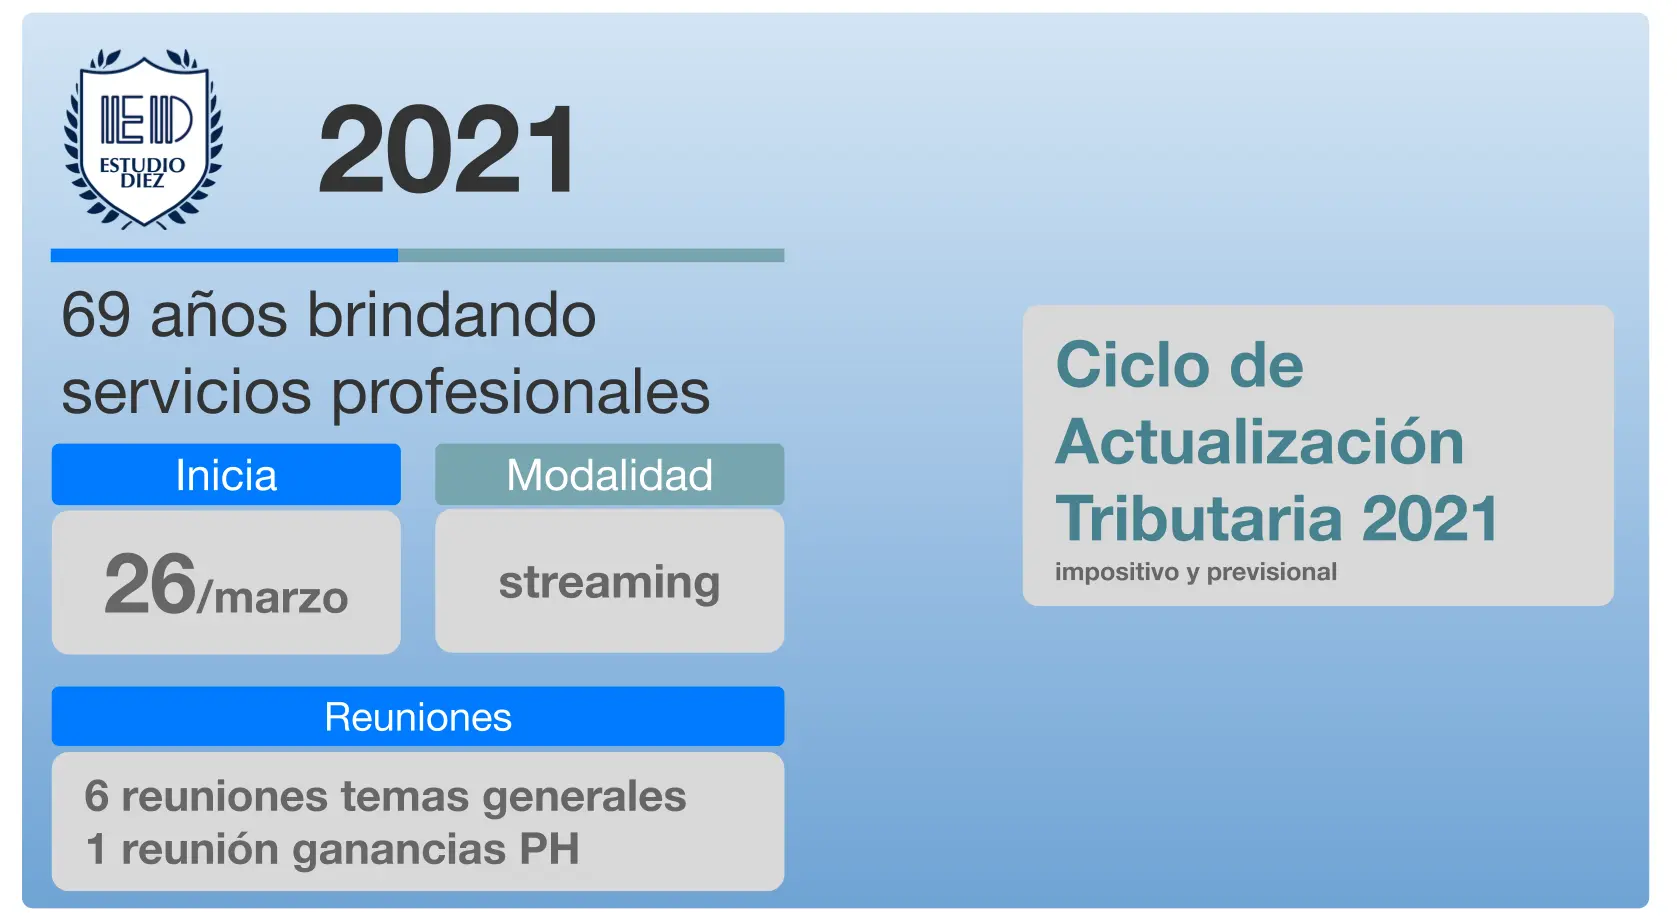
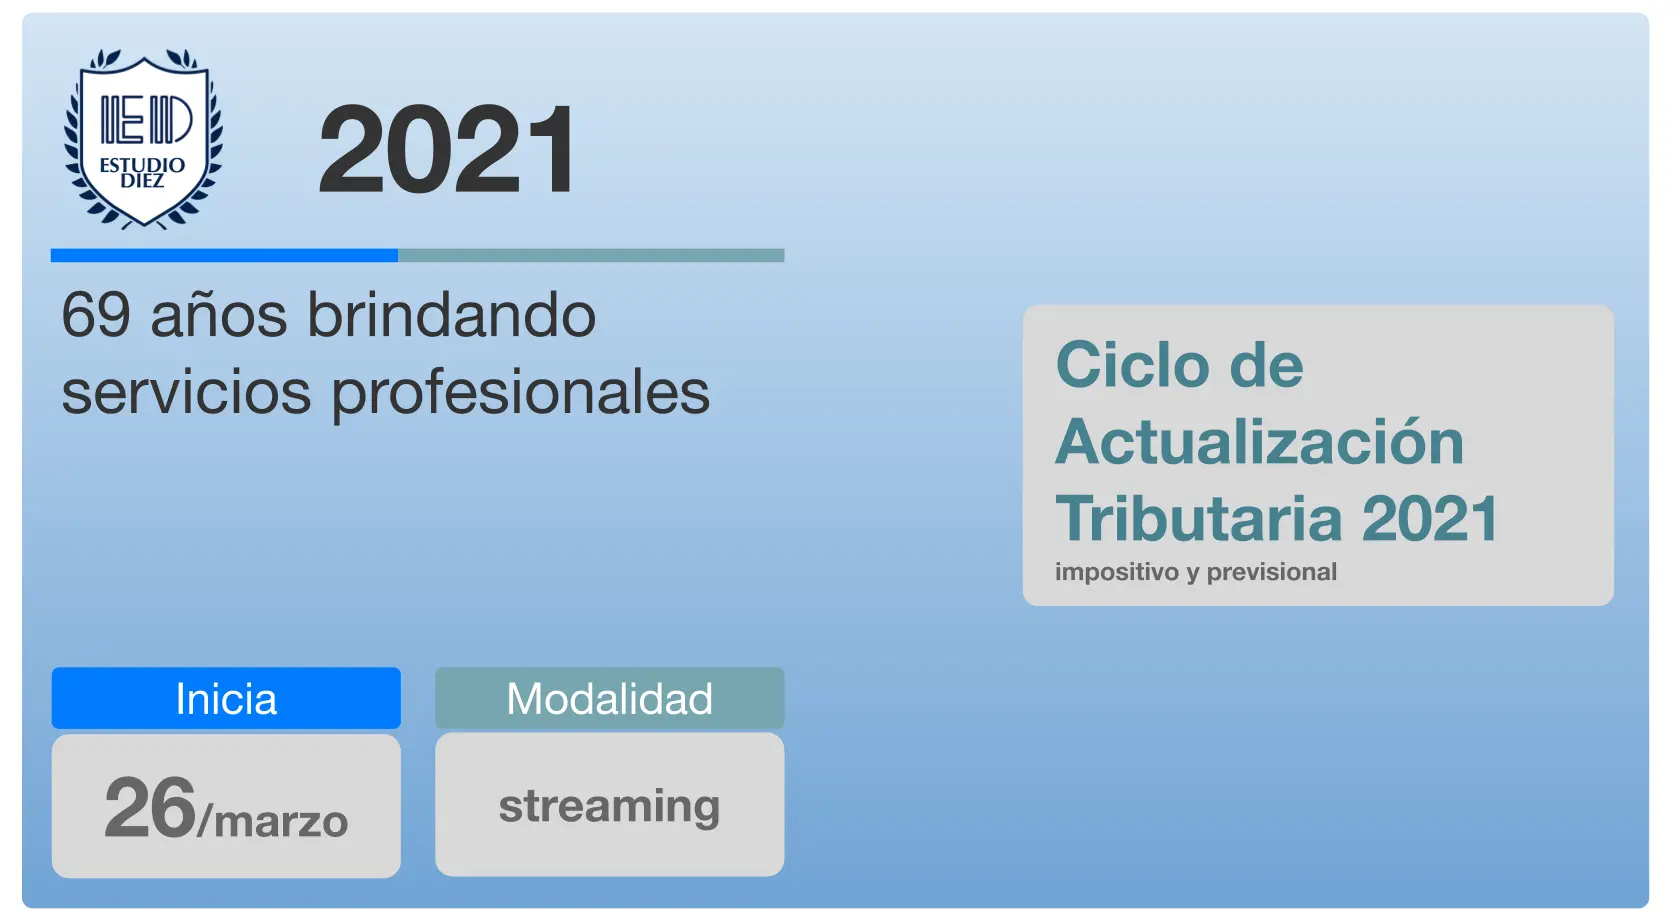
Add files

Changed region(s): [[0.031, 0.456, 0.4961, 0.9729]]

diff --git a/ciclo.html b/ciclo.html
@@ -168,7 +168,6 @@
                   <p class="card-text text-dark">viernes y sábado | las 24 hs.</p>
                 </div>
               </div>
-
             </div>
             <div class="card-deck">
               <div class="card text-white bg-light mb-3">
@@ -206,14 +205,33 @@
 
             <hr class="bg-danger">
 
-            <div class="card text-white bg-dark mb-3">
-              <div class="card-header border-light">Reuniones vía zoom</div>
-              <div class="card-body">
-                <h5 class="card-title">Cuando la temática o circunstancias lo requieran se realizarán charlas en vivo por zoom.</h5>
-                <p class="card-text text-light">fechas a determinar | transmisión y retransmisión las 24 hs.</p>
+            <div class="alert h4-a alert-dark" role="alert">
+              Reuniones adicionales
+            </div>
+
+            <div class="card-deck">
+              <div class="card text-white bg-primary mb-3">
+                <div class="card-header border-light">Reunión online en vivo</div>
+                <div class="card-body">
+                  <h5 class="card-title">Preguntas y respuestas o temas relevantes</h5>
+                </div>
+              </div>
+              <div class="card text-white bg-success mb-3">
+                <div class="card-header border-light">Reunión streaming</div>
+                <div class="card-body">
+                  <h5 class="card-title">Actualidad en jurisprudencia</h5>
+                </div>
               </div>
             </div>
 
+            <div class="card-deck">
+              <div class="card text-dark bg-warning mb-3">
+                <div class="card-header border-light">Reunión online en vivo</div>
+                <div class="card-body">
+                  <h5 class="card-title text-dark">Taller de Procedimiento</h5>
+                </div>
+              </div>
+            </div>
 
             <hr class="bg-primary">
             <div class="alert h4-a alert-primary text-primary" role="alert">
